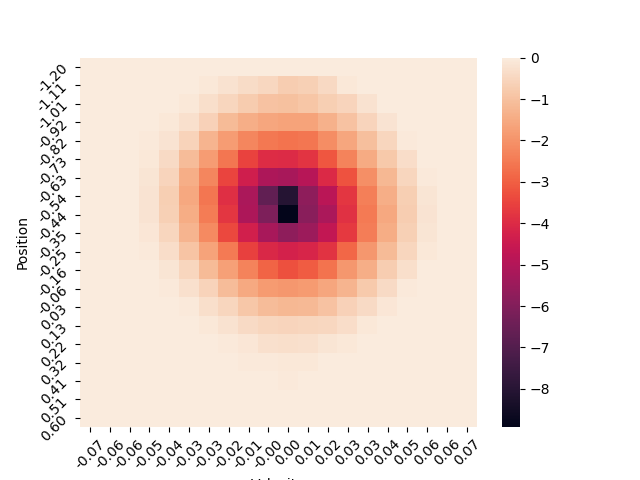
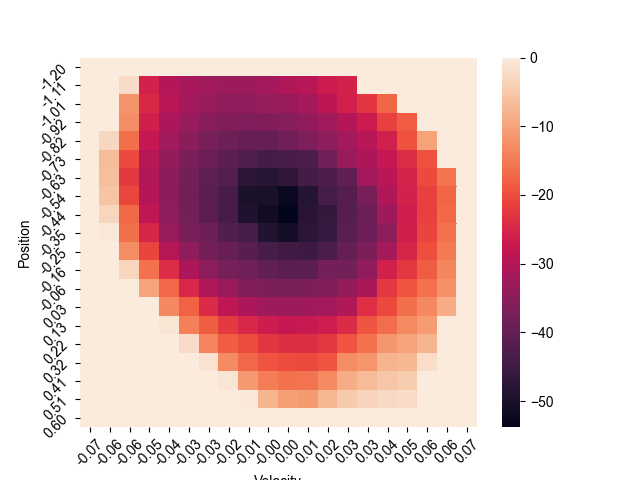
Updated visualization variable names for simplicity

diff --git a/MountainCar.py b/MountainCar.py
@@ -97,16 +97,18 @@ for episode in range(3):
 env.close()
 
 #Visualization
-solution_policy = np.max(Q_table, axis=2)
-heat_map = sb.heatmap(solution_policy, annot=False)
+state_value = np.max(Q_table, axis=2)
+heat_map = sb.heatmap(state_value, annot=False)
+sb.set(font_scale=0.5)
 plt.xlabel('Velocity')
 plt.ylabel('Position')
-poslist = np.linspace(env.low[0], env.high[0], 20).tolist()
-poslist2 = [str(format(litem, '.2f')) for litem in poslist]
-vellist = np.linspace(env.low[1], env.high[1], 20).tolist()
-vellist2 = [str(format(litem, '.2f')) for litem in vellist]
-heat_map.set_xticklabels(vellist2, rotation=45)
-heat_map.set_yticklabels(poslist2, rotation=45)
+#poslist = np.linspace(env.low[0], env.high[0], 20).tolist()
+lpos = [str(format(litem, '.2f')) for litem in np.linspace(env.low[0], env.high[0], 20).tolist()]
+#vellist = np.linspace(env.low[1], env.high[1], 20).tolist()
+lvel = [str(format(litem, '.2f')) for litem in np.linspace(env.low[1], env.high[1], 20).tolist()]
+heat_map.set_yticklabels(lpos, rotation=45)
+heat_map.set_xticklabels(lvel, rotation=45)
+
 plt.show()
 
 
